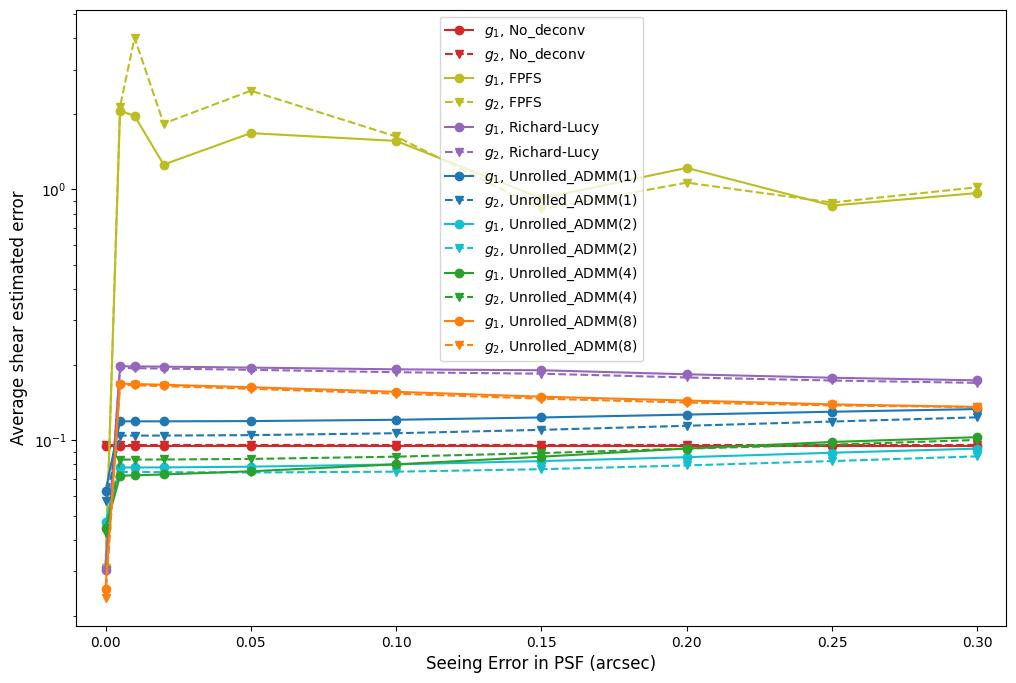
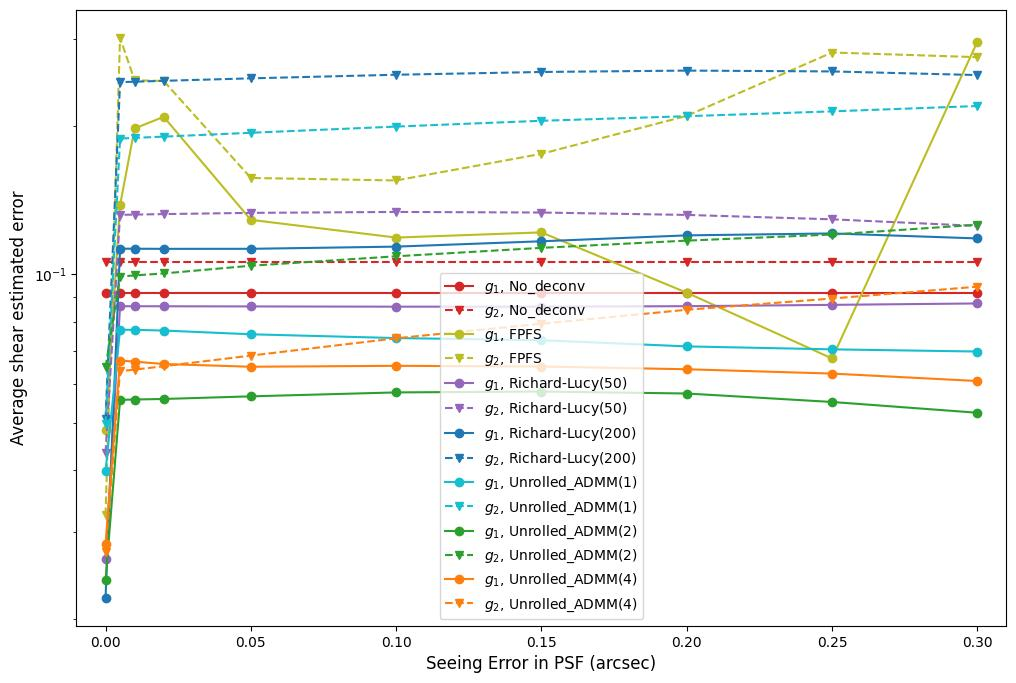
update time and shear experiment

Changed region(s): [[0.0915, 0.0307, 0.9764, 0.8917]]

diff --git a/test_psf.py b/test_psf.py
@@ -33,7 +33,7 @@ def test_psf_shear_err(methods, shear_errs, n_iters, model_files, n_gal):
         rec_err_mean = []
         
         if n_iter > 0:
-            if method == 'Richard-Lucy':
+            if 'Richard-Lucy' in method:
                 model = Richard_Lucy(n_iters=n_iter)
                 model.to(device)
             else:
@@ -69,7 +69,7 @@ def test_psf_shear_err(methods, shear_errs, n_iters, model_files, n_gal):
                             rec_shear.append(estimate_shear(obs, psf, use_psf=True))
                         except:
                             rec_shear.append(obs_shear[idx])
-                    elif method == 'Richard-Lucy':
+                    elif 'Richard-Lucy' in method:
                         obs, psf = obs.to(device), psf.to(device)
                         rec = model(obs, psf) 
                         rec = rec.squeeze(dim=0).squeeze(dim=0).cpu().numpy()
@@ -122,7 +122,7 @@ def test_psf_seeing_err(methods, seeing_errs, n_iters, model_files, n_gal):
         rec_err_mean = []
         
         if n_iter > 0:
-            if method == 'Richard-Lucy':
+            if 'Richard-Lucy' in method:
                 model = Richard_Lucy(n_iters=n_iter)
                 model.to(device)
             else:
@@ -158,7 +158,7 @@ def test_psf_seeing_err(methods, seeing_errs, n_iters, model_files, n_gal):
                             rec_shear.append(estimate_shear(obs, psf, use_psf=True))
                         except:
                             rec_shear.append(obs_shear[idx])
-                    elif method == 'Richard-Lucy':
+                    elif 'Richard-Lucy' in method:
                         obs, psf = obs.to(device), psf.to(device)
                         rec = model(obs, psf) 
                         rec = rec.squeeze(dim=0).squeeze(dim=0).cpu().numpy()

diff --git a/test.py b/test.py
@@ -396,18 +396,18 @@ if __name__ =="__main__":
     if not os.path.exists('./results/'):
         os.mkdir('./results/')
     
-    methods = ['No_deconv', 'Richard-Lucy(20)', 'Richard-Lucy(100)', 'Unrolled_ADMM(1)', 'Unrolled_ADMM(2)', 
+    methods = ['No_deconv', 'Richard-Lucy(50)', 'Richard-Lucy(200)', 'Unrolled_ADMM(1)', 'Unrolled_ADMM(2)', 
                'Unrolled_ADMM(4)', 'Unrolled_ADMM(8)']
-    n_iters = [0, 20, 100, 1, 2, 4, 8]
+    n_iters = [0, 50, 200, 1, 2, 4, 8]
     model_files = [None, None, None,
                    "saved_models/Poisson_PnP_1iters_LSST23.5_50epochs.pth",
                    "saved_models/Poisson_PnP_2iters_LSST23.5_50epochs.pth",
                    "saved_models/Poisson_PnP_4iters_LSST23.5_50epochs.pth",
                    "saved_models/Poisson_PnP_8iters_LSST23.5_50epochs.pth"]
     snrs = [20, 100]
-    test_time(methods=methods, n_iters=n_iters, model_files=model_files, n_gal=opt.n_gal)
-    test_shear(methods=methods, n_iters=n_iters, model_files=model_files, n_gal=opt.n_gal, snr=20)
-    test_shear(methods=methods, n_iters=n_iters, model_files=model_files, n_gal=opt.n_gal, snr=100)
+    # test_time(methods=methods, n_iters=n_iters, model_files=model_files, n_gal=opt.n_gal)
+    # test_shear(methods=methods, n_iters=n_iters, model_files=model_files, n_gal=opt.n_gal, snr=20)
+    # test_shear(methods=methods, n_iters=n_iters, model_files=model_files, n_gal=opt.n_gal, snr=100)
     # plot_psnr(n_iters=opt.n_iters, llh=opt.llh, PnP=opt.PnP, n_epochs=opt.n_epochs, survey=opt.survey, I=opt.I)
     # plot_shear_err(methods=methods)
     plot_time_shear_err(methods=methods, snrs=snrs)

diff --git a/utils.py b/utils.py
@@ -192,7 +192,7 @@ def plot_time_shear_err(methods, snrs):
     ax2 = ax1.twinx()
     ax2.plot(x, t, '-o', label='Time per galaxy', color='tab:red', markersize=8)
     ax2.set_ylabel('Time/sec', fontsize=15)
-    ax2.set_ylim([0, 0.04])
+    ax2.set_ylim([0, 0.05])
     ax2.legend(loc="upper right", fontsize=12)
     
     # ax1.xticks(x, methods, rotation=20, fontsize=14)
